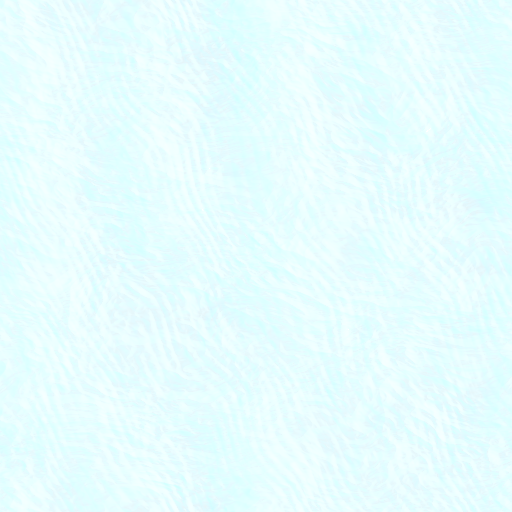
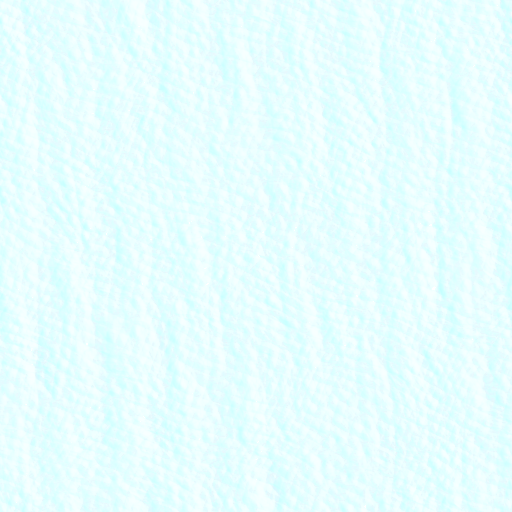
Fix flagship water faceting defaults

diff --git a/Tests/WaterMapCoreTests.cs b/Tests/WaterMapCoreTests.cs
@@ -499,11 +499,11 @@ namespace Siliq.Water.Tests
         {
             var settings = WaterMapPresets.Create(11);
             Assert.That(settings.layers.Length, Is.GreaterThanOrEqualTo(5), "フラッグシップ透明水は単調な一枚ノイズにしない");
-            Assert.LessOrEqual(settings.strength, 0.85f, "フラッグシップ透明水は高品質でも法線を荒く盛りすぎない");
+            Assert.LessOrEqual(settings.strength, 0.65f, "フラッグシップ透明水は高品質でも法線を荒く盛りすぎない");
             Assert.LessOrEqual(settings.baseRoughness, 0.03f, "フラッグシップ透明水は鏡面反射が主役なのでラフネスを低く保つ");
             Assert.GreaterOrEqual(settings.causticsIntensity, 1.0f, "フラッグシップ透明水には淡いコースティクスの存在感が必要");
 
-            bool foundBroadMirrorWave = false;
+            bool foundBroadSmoothWave = false;
             bool foundFineRipples = false;
             bool foundFineLightBreakup = false;
             foreach (var layer in settings.layers)
@@ -512,18 +512,30 @@ namespace Siliq.Water.Tests
                     "フラッグシップ normal / height にセル境界を入れると氷やタイル状に見える");
                 Assert.AreNotEqual(WaveLayerType.VoronoiCells, layer.type,
                     "フラッグシップ normal / height にセル面を入れると水面ではなく板状に見える");
+                Assert.LessOrEqual(layer.amplitude, 0.32f,
+                    "フラッグシップ透明水では単一レイヤーを強くしすぎず、複数の弱い波で作る");
 
-                if (layer.type == WaveLayerType.DirectionalWaves &&
-                    layer.scale <= 4 &&
-                    layer.amplitude >= 0.65f &&
-                    layer.waveCount >= 8)
+                if (layer.type == WaveLayerType.DirectionalWaves && layer.scale <= 8)
                 {
-                    foundBroadMirrorWave = true;
+                    Assert.LessOrEqual(layer.amplitude, 0.20f,
+                        "低周波の強い DirectionalWaves は大きな多角形面や氷割れに見える");
+                    Assert.LessOrEqual(layer.sharpness, 0.80f,
+                        "低周波 DirectionalWaves を尖らせると水ではなく板模様になる");
+                }
+
+                if (layer.type == WaveLayerType.PerlinWaves &&
+                    layer.scale >= 4 &&
+                    layer.scale <= 6 &&
+                    layer.amplitude >= 0.12f &&
+                    layer.amplitude <= 0.22f &&
+                    layer.sharpness <= 0.75f)
+                {
+                    foundBroadSmoothWave = true;
                 }
 
                 if ((layer.type == WaveLayerType.RidgedWaves || layer.type == WaveLayerType.DirectionalWaves) &&
-                    layer.scale >= 20 &&
-                    layer.amplitude <= 0.22f)
+                    layer.scale >= 30 &&
+                    layer.amplitude <= 0.18f)
                 {
                     foundFineRipples = true;
                 }
@@ -537,7 +549,7 @@ namespace Siliq.Water.Tests
                 }
             }
 
-            Assert.IsTrue(foundBroadMirrorWave, "フラッグシップ透明水には広い鏡面うねりが必要");
+            Assert.IsTrue(foundBroadSmoothWave, "フラッグシップ透明水の広い透明ムラは控えめな Perlin 系で作る");
             Assert.IsTrue(foundFineRipples, "フラッグシップ透明水には反射を細かく割る細波が必要");
             Assert.IsTrue(foundFineLightBreakup, "フラッグシップ透明水にはセル境界ではない薄い光のゆらぎが必要");
         }
@@ -576,8 +588,14 @@ namespace Siliq.Water.Tests
             Assert.AreEqual(TextureImporterType.NormalMap, normalImporter.textureType, "normal map が NormalMap import になっていない");
             Assert.AreEqual(normalPath, AssetDatabase.GetAssetPath(material.GetTexture("_BumpMap")),
                 "フラッグシップ material が専用 normal map を参照していない");
-            Assert.AreEqual(heightPath, AssetDatabase.GetAssetPath(material.GetTexture("_ParallaxMap")),
-                "フラッグシップ material が専用 height map を参照していない");
+            Assert.IsNull(material.GetTexture("_ParallaxMap"),
+                "ドラッグ&ドロップ用 Standard material では height map を Parallax に接続しない");
+            Assert.IsFalse(material.IsKeywordEnabled("_PARALLAXMAP"),
+                "ドラッグ&ドロップ用 Standard material では Parallax を切り、変な板模様を出さない");
+            Assert.LessOrEqual(material.GetFloat("_Parallax"), 0.001f,
+                "ドラッグ&ドロップ用 Standard material では height map を視差として強制使用しない");
+            Assert.LessOrEqual(material.GetFloat("_BumpScale"), 0.70f,
+                "ドラッグ&ドロップ用 Standard material でも normal を強く盛りすぎない");
         }
 
         [Test]
@@ -600,7 +618,9 @@ namespace Siliq.Water.Tests
 
                 var renderer = go.GetComponent<Renderer>();
                 var mat = renderer != null ? renderer.sharedMaterial : null;
+                var animator = go.GetComponent<WaterSurfaceAnimator>();
                 Assert.IsNotNull(mat, "Quick Apply で material が設定されていない");
+                Assert.IsNotNull(animator, "Quick Apply で WaterSurfaceAnimator が追加されていない");
 
                 string normalProperty = mat.HasProperty("_NormalMap") ? "_NormalMap" : "_BumpMap";
                 string heightProperty = mat.HasProperty("_HeightMap") ? "_HeightMap" : "_ParallaxMap";
@@ -611,14 +631,68 @@ namespace Siliq.Water.Tests
 
                 if (mat.HasProperty("_HeightMapInfluence"))
                 {
-                    Assert.Greater(mat.GetFloat("_HeightMapInfluence"), 0.25f,
-                        "フラッグシップ透明水は height map を実高さへ使う必要がある");
+                    Assert.LessOrEqual(mat.GetFloat("_HeightMapInfluence"), 0.05f,
+                        "フラッグシップ透明水は初期状態で height map を強く使うと多角形模様に見える");
                 }
+                if (mat.HasProperty("_DisplacementStrength"))
+                {
+                    Assert.LessOrEqual(mat.GetFloat("_DisplacementStrength"), 0.02f,
+                        "フラッグシップ透明水の初期高さは控えめにして、粗いメッシュで破綻させない");
+                }
+                if (mat.HasProperty("_NormalStrength"))
+                {
+                    Assert.LessOrEqual(mat.GetFloat("_NormalStrength"), 0.65f,
+                        "フラッグシップ透明水の normal を盛りすぎると変な模様に見える");
+                }
+                Assert.LessOrEqual(animator.displacementStrength, 0.02f,
+                    "Animator 側も低い高さで開始し、粗いメッシュで多角形化させない");
+                Assert.LessOrEqual(animator.heightMapInfluence, 0.05f,
+                    "Animator 側も height map を初期状態で強く使わない");
+                Assert.LessOrEqual(animator.strength, 0.65f,
+                    "Animator 側で normal strength を上書きして変な模様へ戻さない");
             }
             finally
             {
                 Selection.activeGameObject = null;
                 if (go != null) Object.DestroyImmediate(go);
+            }
+        }
+
+        [Test]
+        public void BeginnerSetup_RepairsOldFlagshipHeightSettings()
+        {
+            GameObject go = null;
+            Material mat = null;
+            try
+            {
+                Shader shader = Shader.Find("Siliq/Water Mobile (Quest)");
+                Assert.IsNotNull(shader, "Siliq/Water Mobile (Quest) シェーダーが見つからない");
+
+                go = GameObject.CreatePrimitive(PrimitiveType.Plane);
+                mat = new Material(shader) { name = "M_Water_Look_FlagshipCrystal_Old" };
+                if (mat.HasProperty("_HeightMapInfluence")) mat.SetFloat("_HeightMapInfluence", 0.35f);
+                if (mat.HasProperty("_DisplacementStrength")) mat.SetFloat("_DisplacementStrength", 0.045f);
+                go.GetComponent<Renderer>().sharedMaterial = mat;
+
+                var report = new System.Collections.Generic.List<string>();
+                bool changed = WaterBeginnerSetup.RepairWaterObject(go, report);
+                var repaired = go.GetComponent<Renderer>().sharedMaterial;
+
+                Assert.IsTrue(changed, "古い強い flagship height 設定を診断修復できていない");
+                Assert.IsNotNull(repaired, "修復後 material がない");
+                if (repaired.HasProperty("_HeightMapInfluence"))
+                {
+                    Assert.LessOrEqual(repaired.GetFloat("_HeightMapInfluence"), 0.05f);
+                }
+                if (repaired.HasProperty("_DisplacementStrength"))
+                {
+                    Assert.LessOrEqual(repaired.GetFloat("_DisplacementStrength"), 0.02f);
+                }
+            }
+            finally
+            {
+                if (go != null) Object.DestroyImmediate(go);
+                if (mat != null) Object.DestroyImmediate(mat);
             }
         }
 

diff --git a/Runtime/Core/WaterMapPresets.cs b/Runtime/Core/WaterMapPresets.cs
@@ -332,52 +332,53 @@ namespace Siliq.Water
             return s;
         }
 
-        /// <summary>製品デモの主役にする透明水。セル境界を使わず、広い鏡面、細波、実高さ用の中周波を重ねる。</summary>
+        /// <summary>製品デモの主役にする透明水。セル境界や大きな塊を使わず、細い反射筋と穏やかなうねりを重ねる。</summary>
         static WaterMapSettings FlagshipCrystalWater()
         {
-            var s = Base(0.72f);
+            var s = Base(0.46f);
             s.baseRoughness = 0.018f;
-            s.slopeRoughness = 0.48f;
-            s.foamThreshold = 0.86f;
-            s.foamSlopeBoost = 0.24f;
-            s.flowSwirl = 0.34f;
-            s.flowStrength = 0.42f;
-            s.dudvStrength = 0.75f;
-            s.causticsIntensity = 1.35f;
-            s.causticsSharpness = 2.35f;
+            s.slopeRoughness = 0.32f;
+            s.foamThreshold = 0.92f;
+            s.foamSlopeBoost = 0.12f;
+            s.flowSwirl = 0.22f;
+            s.flowStrength = 0.30f;
+            s.dudvStrength = 0.66f;
+            s.causticsIntensity = 1.05f;
+            s.causticsSharpness = 1.70f;
             s.layers = new[]
             {
                 new WaveLayer
                 {
-                    name = "大きな鏡面うねり", type = WaveLayerType.DirectionalWaves, blend = WaveBlendMode.Add,
-                    amplitude = 0.72f, scale = 3, sharpness = 1.05f, directionDeg = 24f, spreadDeg = 38f,
-                    waveCount = 9, speed = 1, seed = 41,
+                    name = "長い反射の流れ", type = WaveLayerType.DirectionalWaves, blend = WaveBlendMode.Add,
+                    amplitude = 0.26f, scale = 12, sharpness = 0.58f, directionDeg = 18f, spreadDeg = 24f,
+                    waveCount = 14, speed = 1, seed = 41, maskAmount = 0.16f, maskScale = 3,
                 },
                 new WaveLayer
                 {
-                    name = "反射を割る斜めうねり", type = WaveLayerType.DirectionalWaves, blend = WaveBlendMode.Add,
-                    amplitude = 0.34f, scale = 7, sharpness = 0.95f, directionDeg = 96f, spreadDeg = 55f,
-                    waveCount = 14, speed = 1, seed = 42, maskAmount = 0.22f, maskScale = 3,
+                    name = "滑らかな透明ムラ", type = WaveLayerType.PerlinWaves, blend = WaveBlendMode.Add,
+                    amplitude = 0.18f, scale = 5, octaves = 4, persistence = 0.42f, sharpness = 0.70f,
+                    speed = 1, seed = 42, warpAmount = 0.12f, warpScale = 3, maskAmount = 0.12f, maskScale = 2,
                 },
                 new WaveLayer
                 {
-                    name = "透明水の細波", type = WaveLayerType.RidgedWaves, blend = WaveBlendMode.Add,
-                    amplitude = 0.18f, scale = 26, octaves = 3, persistence = 0.38f, sharpness = 0.90f,
-                    directionDeg = 38f, stretch = 2, speed = 2, seed = 43, warpAmount = 0.16f, warpScale = 5,
-                    maskAmount = 0.26f, maskScale = 5,
+                    name = "透明水の細いリップル", type = WaveLayerType.DirectionalWaves, blend = WaveBlendMode.Add,
+                    amplitude = 0.14f, scale = 34, sharpness = 0.56f, directionDeg = 42f, spreadDeg = 48f,
+                    waveCount = 22, speed = 2, seed = 43, warpAmount = 0.10f, warpScale = 5,
+                    maskAmount = 0.24f, maskScale = 5,
                 },
                 new WaveLayer
                 {
-                    name = "低周波の透明ムラ", type = WaveLayerType.PerlinWaves, blend = WaveBlendMode.Add,
-                    amplitude = 0.22f, scale = 4, octaves = 5, persistence = 0.50f, sharpness = 0.95f,
-                    speed = 1, seed = 44, warpAmount = 0.30f, warpScale = 3, maskAmount = 0.35f, maskScale = 2,
+                    name = "交差する薄い反射筋", type = WaveLayerType.DirectionalWaves, blend = WaveBlendMode.Add,
+                    amplitude = 0.10f, scale = 48, sharpness = 0.52f, directionDeg = -18f, spreadDeg = 64f,
+                    waveCount = 24, speed = 1, seed = 44, warpAmount = 0.08f, warpScale = 6,
+                    maskAmount = 0.28f, maskScale = 4,
                 },
                 new WaveLayer
                 {
-                    name = "薄い光のゆらぎ", type = WaveLayerType.DirectionalWaves, blend = WaveBlendMode.Add,
-                    amplitude = 0.09f, scale = 38, sharpness = 0.72f, directionDeg = -14f, spreadDeg = 82f,
-                    waveCount = 26, speed = 1, seed = 45, warpAmount = 0.12f, warpScale = 6,
-                    maskAmount = 0.40f, maskScale = 4,
+                    name = "微細な光のゆらぎ", type = WaveLayerType.RidgedWaves, blend = WaveBlendMode.Add,
+                    amplitude = 0.06f, scale = 58, octaves = 3, persistence = 0.30f, sharpness = 0.64f,
+                    directionDeg = 34f, stretch = 2, speed = 2, seed = 45, warpAmount = 0.08f, warpScale = 8,
+                    maskAmount = 0.34f, maskScale = 5,
                 },
             };
             return s;

diff --git a/Editor/WaterMapStudioWindow.cs b/Editor/WaterMapStudioWindow.cs
@@ -1529,9 +1529,9 @@ namespace Siliq.Water.Editor
             if (mat.HasProperty("_TransmissionColor")) mat.SetColor("_TransmissionColor", new Color(0.34f, 1f, 0.95f, 1f));
             if (mat.HasProperty("_GlimmerColor")) mat.SetColor("_GlimmerColor", new Color(1f, 1f, 0.94f, 1f));
             if (mat.HasProperty("_Opacity")) mat.SetFloat("_Opacity", Mathf.Clamp01(opacity));
-            if (mat.HasProperty("_NormalStrength")) mat.SetFloat("_NormalStrength", 0.78f);
-            if (mat.HasProperty("_Tiling1")) mat.SetFloat("_Tiling1", 1.05f);
-            if (mat.HasProperty("_Tiling2")) mat.SetFloat("_Tiling2", 2.85f);
+            if (mat.HasProperty("_NormalStrength")) mat.SetFloat("_NormalStrength", 0.58f);
+            if (mat.HasProperty("_Tiling1")) mat.SetFloat("_Tiling1", 1.80f);
+            if (mat.HasProperty("_Tiling2")) mat.SetFloat("_Tiling2", 4.60f);
             if (mat.HasProperty("_AlphaFresnel")) mat.SetFloat("_AlphaFresnel", 0.72f);
             if (mat.HasProperty("_AlphaPower")) mat.SetFloat("_AlphaPower", 1.85f);
             if (mat.HasProperty("_EdgeReflection")) mat.SetFloat("_EdgeReflection", 0.88f);
@@ -1545,11 +1545,11 @@ namespace Siliq.Water.Editor
             if (mat.HasProperty("_SpecIntensity")) mat.SetFloat("_SpecIntensity", 1.75f);
             if (mat.HasProperty("_SpecPower")) mat.SetFloat("_SpecPower", 340f);
             if (mat.HasProperty("_Smoothness")) mat.SetFloat("_Smoothness", 0.99f);
-            if (mat.HasProperty("_DisplacementStrength")) mat.SetFloat("_DisplacementStrength", 0.045f);
-            if (mat.HasProperty("_DisplacementScale")) mat.SetFloat("_DisplacementScale", 0.58f);
-            if (mat.HasProperty("_DisplacementSpeed")) mat.SetFloat("_DisplacementSpeed", 0.22f);
-            if (mat.HasProperty("_HeightMapInfluence")) mat.SetFloat("_HeightMapInfluence", hasHeightMap ? 0.35f : 0f);
-            SetupMacroVariation(mat, 0.34f, 0.065f, 0.28f, 0.14f);
+            if (mat.HasProperty("_DisplacementStrength")) mat.SetFloat("_DisplacementStrength", 0.012f);
+            if (mat.HasProperty("_DisplacementScale")) mat.SetFloat("_DisplacementScale", 0.85f);
+            if (mat.HasProperty("_DisplacementSpeed")) mat.SetFloat("_DisplacementSpeed", 0.18f);
+            if (mat.HasProperty("_HeightMapInfluence")) mat.SetFloat("_HeightMapInfluence", 0f);
+            SetupMacroVariation(mat, 0.22f, 0.075f, 0.18f, 0.10f);
         }
 
         static void SetupMacroVariation(Material mat, float variation, float scale, float directionBreakup, float colorVariation)

diff --git a/Editor/WaterBeginnerSetup.cs b/Editor/WaterBeginnerSetup.cs
@@ -159,7 +159,7 @@ namespace Siliq.Water.Editor
                 if (animator.opacity < 0.35f) animator.opacity = 0.52f;
                 if (animator.reflectionStrength < 0.8f) animator.reflectionStrength = 1f;
                 if (animator.edgeReflection < 0.65f) animator.edgeReflection = 0.88f;
-                if (animator.displacementStrength <= 0f) animator.displacementStrength = 0.045f;
+                if (animator.displacementStrength <= 0f) animator.displacementStrength = 0.012f;
                 animator.ApplyImmediate(0f);
                 EditorUtility.SetDirty(animator);
             }
@@ -171,12 +171,27 @@ namespace Siliq.Water.Editor
         {
             if (mat == null || mat.shader == null) return true;
             if (!WaterShaderUtility.IsUsableShaderForCurrentPipeline(mat.shader)) return true;
-            if (mat.shader.name.StartsWith("Siliq/Water", System.StringComparison.Ordinal)) return false;
+            if (mat.shader.name.StartsWith("Siliq/Water", System.StringComparison.Ordinal))
+            {
+                return IsUnsafeFlagshipMaterial(mat);
+            }
 
             bool hasNormalTexture = false;
             if (mat.HasProperty("_NormalMap") && mat.GetTexture("_NormalMap") != null) hasNormalTexture = true;
             if (mat.HasProperty("_BumpMap") && mat.GetTexture("_BumpMap") != null) hasNormalTexture = true;
-            return !hasNormalTexture;
+            if (!hasNormalTexture) return true;
+            return IsUnsafeFlagshipMaterial(mat);
+        }
+
+        static bool IsUnsafeFlagshipMaterial(Material mat)
+        {
+            if (mat == null) return false;
+            if (mat.name.IndexOf("Flagship", System.StringComparison.OrdinalIgnoreCase) < 0) return false;
+
+            if (mat.HasProperty("_HeightMapInfluence") && mat.GetFloat("_HeightMapInfluence") > 0.05f) return true;
+            if (mat.HasProperty("_DisplacementStrength") && mat.GetFloat("_DisplacementStrength") > 0.02f) return true;
+            if (mat.HasProperty("_Parallax") && mat.GetFloat("_Parallax") > 0.001f) return true;
+            return mat.IsKeywordEnabled("_PARALLAXMAP");
         }
 
         internal static Mesh GetOrCreateWaterGridMesh(int segments, float size)

diff --git a/Editor/WaterPackQuickApply.cs b/Editor/WaterPackQuickApply.cs
@@ -203,7 +203,7 @@ namespace Siliq.Water.Editor
             sourceGuid = FlagshipCrystalGuid,
             sourceLabel = "FlagshipCrystal",
             heightGuid = FlagshipCrystalHeightGuid,
-            motion = new MotionPreset(26f, 0.22f, 0.74f, 1.18f),
+            motion = new MotionPreset(26f, 0.22f, 0.58f, 1.18f),
             transparent = true,
             opacity = 0.52f,
             shallow = new Color(0.24f, 0.92f, 1f, 1f),
@@ -211,9 +211,9 @@ namespace Siliq.Water.Editor
             horizon = new Color(0.90f, 0.99f, 1f, 1f),
             transmission = new Color(0.34f, 1f, 0.95f, 1f),
             glimmer = new Color(1f, 1f, 0.94f, 1f),
-            normalStrength = 0.78f,
-            tiling1 = 1.05f,
-            tiling2 = 2.85f,
+            normalStrength = 0.58f,
+            tiling1 = 1.80f,
+            tiling2 = 4.60f,
             alphaFresnel = 0.72f,
             alphaPower = 1.85f,
             edgeReflection = 0.88f,
@@ -226,15 +226,15 @@ namespace Siliq.Water.Editor
             specIntensity = 1.75f,
             fresnelPower = 1.90f,
             reflStrength = 1f,
-            displacementStrength = 0.045f,
-            displacementScale = 0.58f,
-            displacementSpeed = 0.22f,
-            heightMapInfluence = 0.35f,
+            displacementStrength = 0.012f,
+            displacementScale = 0.85f,
+            displacementSpeed = 0.18f,
+            heightMapInfluence = 0f,
             smoothness = 0.99f,
-            macroVariation = 0.34f,
-            macroScale = 0.065f,
-            macroDirectionBreakup = 0.28f,
-            macroColorVariation = 0.14f,
+            macroVariation = 0.22f,
+            macroScale = 0.075f,
+            macroDirectionBreakup = 0.18f,
+            macroColorVariation = 0.10f,
         };
 
         static readonly LookPreset BloodSeaLook = new LookPreset

diff --git a/CHANGELOG.md b/CHANGELOG.md
@@ -1,5 +1,14 @@
 # Changelog
 
+## [2.3.30] - 2026-07-08
+
+### 修正: フラッグシップ水面が氷割れ・多角形模様に見える問題を抑制
+- フラッグシップ透明水の生成レシピから、低周波の強い Directional wave 干渉を外し、弱い反射筋と控えめな Perlin ムラ中心に変更
+- Quick Apply / Studio のフラッグシップ初期値を、強い height map 変位ではなく、弱い手続きうねり + 細波 normal + 反射中心の見た目へ変更
+- 同梱 `M_Water_FlagshipCrystal` の Standard Parallax を無効化し、ドラッグ&ドロップだけで変な板模様が出ないようにした
+- 診断修復で古いフラッグシップ material の強すぎる height 設定を検出し、現在の安全な初期値へ再適用できるようにした
+- 多角形模様へ戻らないよう、低周波 Directional wave、強い height influence、Parallax keyword をテストで禁止
+
 ## [2.3.29] - 2026-07-08
 
 ### 追加: 初心者向けのはじめてガイド
